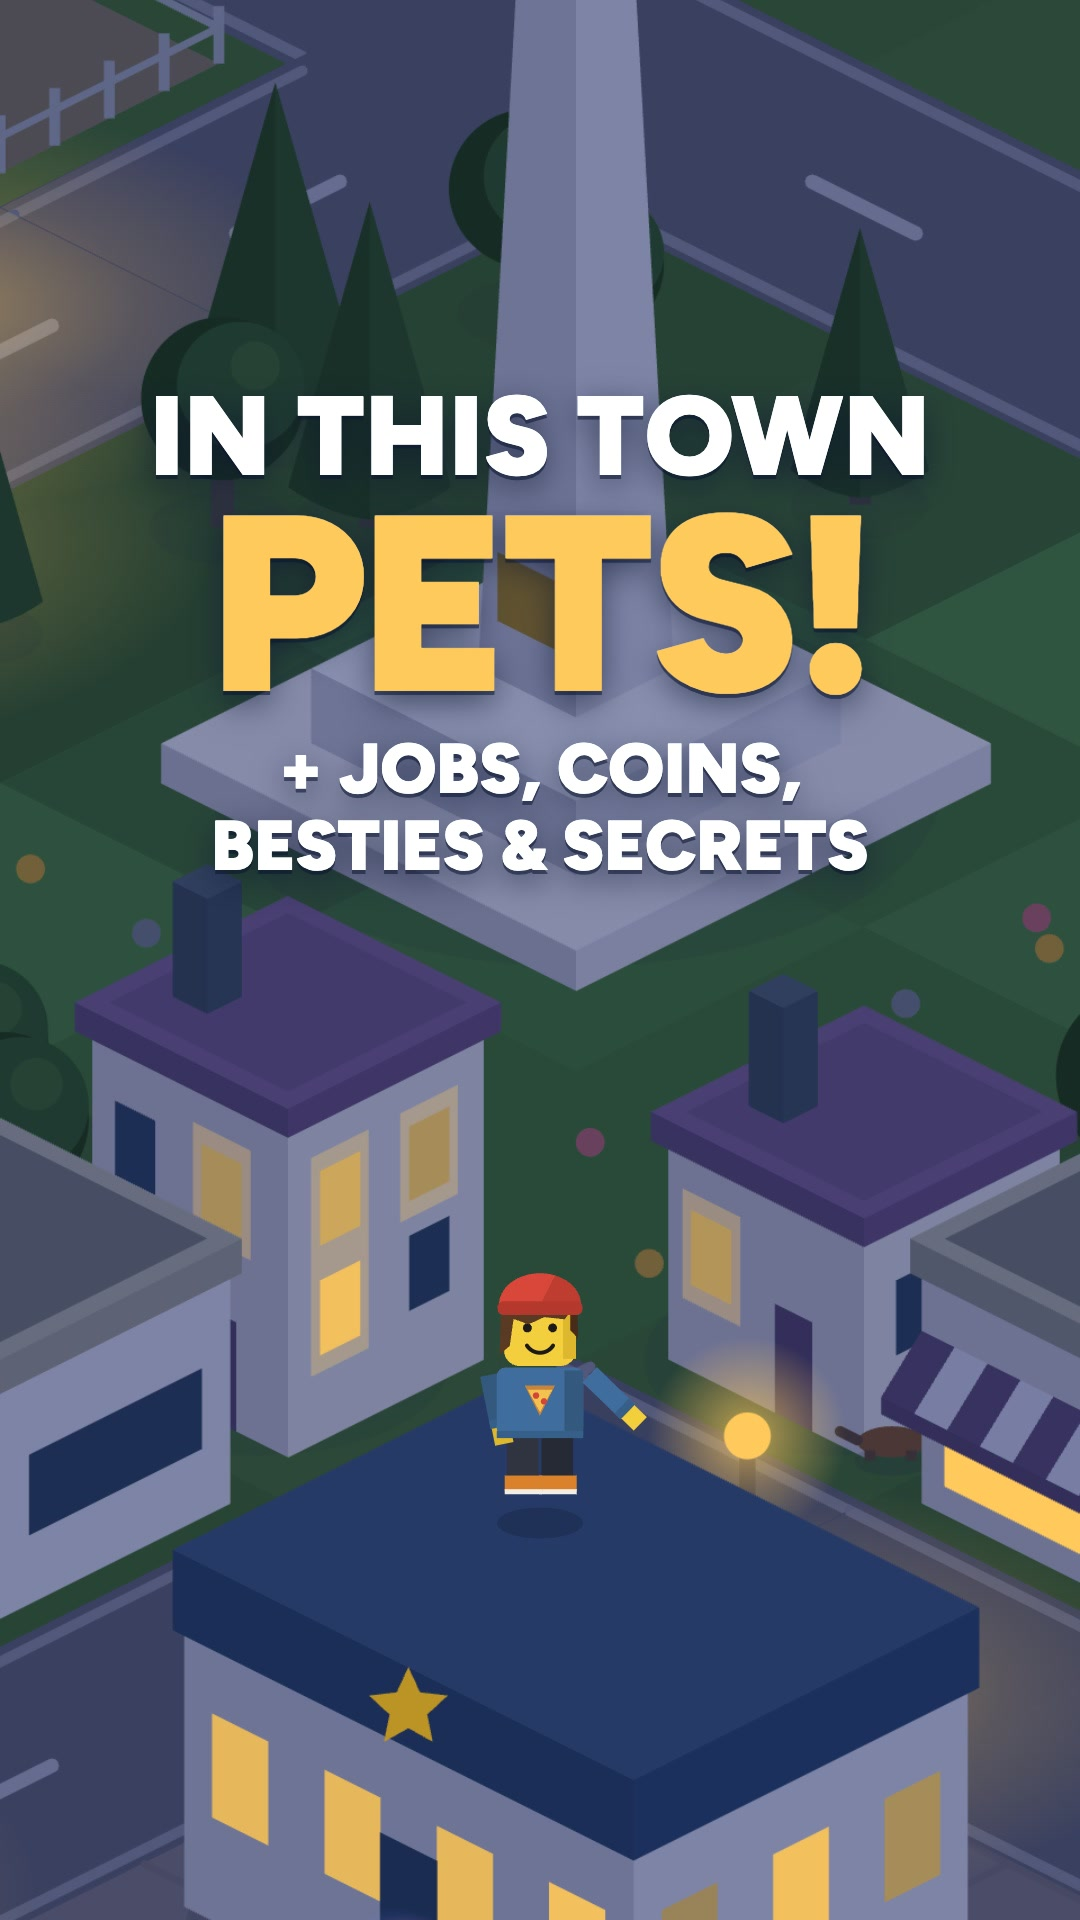
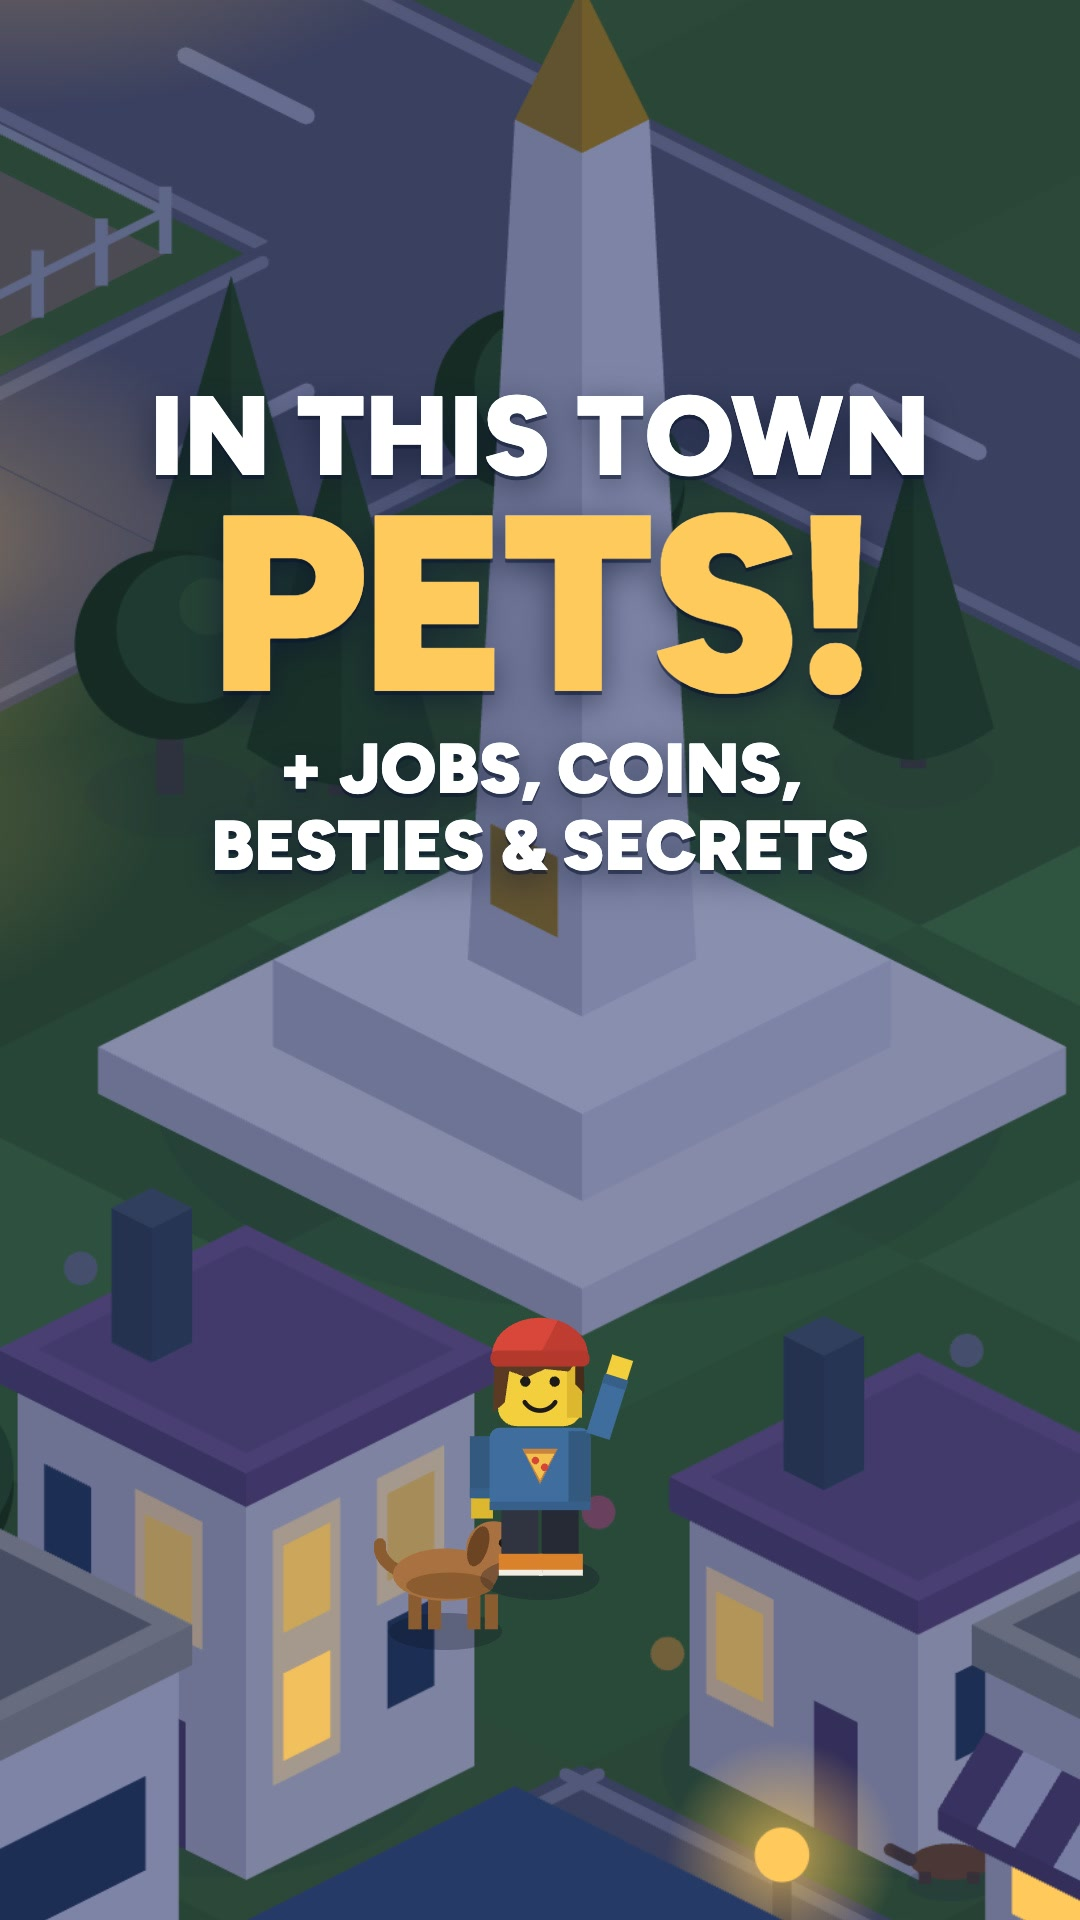
"In this town" #3 polish: Jadie's pet companion; never speak highlight markers
- Jadie's pet: dog, cat, bunny and fox drawn in his flat style (src/reel-jadie.ts), trotting
  beside him in reels (actor key `pet`, held until the next key names one). The map's own pets are
  tiny yard sprites, so the reel shows his real dog this way; the cat/bunny/fox swaps are jokes.
- Episode T3: Jadie stands on the lawn by the monument (the police station now sits on the street
  in front of his house); his pet swaps dog → cat → bunny on the words and turns into a fox on
  "a fox"; final cover and library caption (all new features, 5 hashtags, notes, alt text).
- Narration: *word* markers are stripped from what the voice speaks, so a line without its own
  `say` can never read out "asterisk" (it did in three T3 lines; the reel is now 16.9 s).

diff --git a/src/reel.ts b/src/reel.ts
@@ -23,7 +23,7 @@ import type { CityView, ReelCamera, ReelControl, ReelTarget } from './city/api';
 import { COLORS, FONTS, alpha, skyAt, type SkyState } from './theme';
 import { renderShareCard } from './ui/share';
 import { addressOf } from './ui/lookup';
-import { drawJadie, JADIE_HEIGHT, type JadiePose } from './reel-jadie';
+import { drawCompanion, drawJadie, JADIE_HEIGHT, type CompanionPet, type JadiePose } from './reel-jadie';
 
 export interface ReelStats {
   city: string;
@@ -126,7 +126,8 @@ interface Key {
  */
 export interface ReelActor {
   id: 'jadie';
-  keys: { t: number; at: string; dx?: number; dy?: number; pose?: JadiePose; face?: 1 | -1 }[];
+  /** `pet`: a companion trotting beside him from this key on (null for none) */
+  keys: { t: number; at: string; dx?: number; dy?: number; pose?: JadiePose; face?: 1 | -1; pet?: CompanionPet | null }[];
   talk?: { from: number; to: number }[];
   /** added to the animation clock (gestures, breathing), e.g. to end a looping reel on its first frame's pose */
   clock?: number;
@@ -457,7 +458,7 @@ export function startReel(city: CityView, data: CityData, params: URLSearchParam
 
   const canvas = document.getElementById('city') as HTMLCanvasElement;
   // ── scripted camera (launch reels): set with window.kinsburgReel.setScript() ──
-  let script: { duration: number; cams: { t: number; cam: ReelCamera }[]; hours: { t: number; h: number }[]; dark: { id: string; until: number }[]; rings: { id: string; from: number; to: number }[]; labels: ReelLabel[]; lifts?: number[]; actors: { id: string; keys: { t: number; x: number; y: number; pose: JadiePose; face?: 1 | -1 }[]; talk: { from: number; to: number }[]; clock: number }[]; ease: 'cubic' | 'sine' } | null = null;
+  let script: { duration: number; cams: { t: number; cam: ReelCamera }[]; hours: { t: number; h: number }[]; dark: { id: string; until: number }[]; rings: { id: string; from: number; to: number }[]; labels: ReelLabel[]; lifts?: number[]; actors: { id: string; keys: { t: number; x: number; y: number; pose: JadiePose; face?: 1 | -1; pet?: CompanionPet | null }[]; talk: { from: number; to: number }[]; clock: number }[]; ease: 'cubic' | 'sine' } | null = null;
   const resolveTarget = (spec: string): ReelTarget | null => {
     const id = normalise(spec);
     if (id === 'wide') return null;
@@ -473,20 +474,23 @@ export function startReel(city: CityView, data: CityData, params: URLSearchParam
     return { x: (b.minX + b.maxX) / 2, y: (b.minY + b.maxY) / 2 - (H * 0.02) / z, zoom: z };
   };
   /** Where an actor is at time t, the pose to draw and which way he faces. */
-  const actorAt = (a: { keys: { t: number; x: number; y: number; pose: JadiePose; face?: 1 | -1 }[] }, t: number) => {
+  const actorAt = (a: { keys: { t: number; x: number; y: number; pose: JadiePose; face?: 1 | -1; pet?: CompanionPet | null }[] }, t: number) => {
     const ks = a.keys;
-    if (t <= ks[0].t) return { x: ks[0].x, y: ks[0].y, pose: ks[0].pose, face: ks[0].face ?? 1 };
+    // the pet is whatever the latest key that names one says
+    let pet: CompanionPet | null = null;
+    for (const k of ks) if (k.t <= t && k.pet !== undefined) pet = k.pet;
+    if (t <= ks[0].t) return { x: ks[0].x, y: ks[0].y, pose: ks[0].pose, face: ks[0].face ?? 1, pet: ks[0].pet ?? null };
     for (let i = 0; i < ks.length - 1; i++) {
       const A = ks[i], B = ks[i + 1];
       if (t > B.t) continue;
       const moving = Math.hypot(B.x - A.x, B.y - A.y) > 0.5;
-      if (!moving) return { x: A.x, y: A.y, pose: A.pose, face: A.face ?? 1 };
+      if (!moving) return { x: A.x, y: A.y, pose: A.pose, face: A.face ?? 1, pet };
       const u = clamp01((t - A.t) / Math.max(1e-6, B.t - A.t));
       const e = u * u * (3 - 2 * u);
-      return { x: lerp(A.x, B.x, e), y: lerp(A.y, B.y, e), pose: 'walk' as JadiePose, face: (B.face ?? (B.x >= A.x ? 1 : -1)) as 1 | -1 };
+      return { x: lerp(A.x, B.x, e), y: lerp(A.y, B.y, e), pose: 'walk' as JadiePose, face: (B.face ?? (B.x >= A.x ? 1 : -1)) as 1 | -1, pet };
     }
     const L = ks[ks.length - 1];
-    return { x: L.x, y: L.y, pose: L.pose, face: L.face ?? 1 };
+    return { x: L.x, y: L.y, pose: L.pose, face: L.face ?? 1, pet };
   };
   /** Camera between script keys: cubic ease in-out, keeping the closer shot's centre on a straight screen path. */
   const scriptCamera = (t: number): ReelCamera => {
@@ -530,6 +534,11 @@ export function startReel(city: CityView, data: CityData, params: URLSearchParam
         ctx.save();
         ctx.setTransform(1, 0, 0, 1, 0, 0);
         const talk = a.talk.some((r) => tt >= r.from && tt <= r.to);
+        if (p.pet) {
+          // the pet trots a step behind and beside him, a little lower so it reads in front of the street
+          const px = p.x - p.face * 9, py = p.y + 5;
+          drawCompanion(ctx, W / 2 + (px - camera.x) * camera.zoom, H / 2 + (py - camera.y) * camera.zoom, camera.zoom, p.pet, tt + a.clock, p.face, p.pose === 'walk');
+        }
         drawJadie(ctx, W / 2 + (p.x - camera.x) * camera.zoom, H / 2 + (p.y - camera.y) * camera.zoom, camera.zoom, p.pose, tt + a.clock, p.face, talk);
         ctx.restore();
       }
@@ -580,7 +589,7 @@ export function startReel(city: CityView, data: CityData, params: URLSearchParam
         keys: a.keys.map((k) => {
           const tg = resolveTarget(k.at);
           if (!tg) missingActors.push(k.at);
-          return { t: k.t, x: (tg?.x ?? 0) + (k.dx ?? 0), y: (tg?.y ?? 0) + (k.dy ?? 0), pose: k.pose ?? 'idle', face: k.face };
+          return { t: k.t, x: (tg?.x ?? 0) + (k.dx ?? 0), y: (tg?.y ?? 0) + (k.dy ?? 0), pose: k.pose ?? 'idle', face: k.face, pet: k.pet };
         }),
       }));
       // each key: { t, target: resident id | 'landmark:kind' | 'lot:id' | 'actor:jadie' | 'wide', zoom?, y? (where the subject sits, 0..1 of the height) }

diff --git a/src/reel-jadie.ts b/src/reel-jadie.ts
@@ -166,3 +166,85 @@ function roundRect(ctx: CanvasRenderingContext2D, x: number, y: number, w: numbe
   ctx.arcTo(x, y, x + w, y, r);
   ctx.closePath();
 }
+
+// ── Jadie's pet (a companion that trots beside him in reels) ────────────────────
+export type CompanionPet = 'dog' | 'cat' | 'bunny' | 'fox';
+
+const P = {
+  dog: { body: '#a8713f', shade: '#8c5c31', dark: '#6b4423' },
+  cat: { body: '#8d929c', shade: '#747985', dark: '#5d616b' },
+  bunny: { body: '#f2ede3', shade: '#ddd6c8', dark: '#e9a5a5' },
+  fox: { body: '#e07a2f', shade: '#c4651f', dark: '#3a2a20' },
+};
+
+/**
+ * Draw a small pet with its feet at (sx, sy), facing `face`, in the same flat style and scale as Jadie
+ * (about 9 units long). `moving` makes it trot; at rest it breathes and wags.
+ */
+export function drawCompanion(ctx: CanvasRenderingContext2D, sx: number, sy: number, k: number, kind: CompanionPet, t: number, face: 1 | -1 = 1, moving = false) {
+  const c = P[kind];
+  ctx.save();
+  ctx.translate(sx, sy);
+  ctx.scale(k * face * SCALE * 1.3, k * SCALE * 1.3); // a bit larger than life so it reads on a phone
+  const hop = kind === 'bunny' ? -Math.abs(Math.sin(t * (moving ? 9 : 2.4))) * (moving ? 3 : 0.6) : moving ? -Math.abs(Math.sin(t * 11)) * 0.8 : 0;
+  // shadow
+  ctx.fillStyle = 'rgba(10,16,32,0.28)';
+  ctx.beginPath(); ctx.ellipse(0, 0.2, 5.2, 1.7, 0, 0, Math.PI * 2); ctx.fill();
+  ctx.translate(0, hop);
+  const step = moving ? Math.sin(t * 22) * 0.9 : 0;
+  // legs (not for the bunny, whose body sits on its feet)
+  if (kind !== 'bunny') {
+    ctx.fillStyle = c.shade;
+    for (const [x, s] of [[-3.4, step], [-1.6, -step], [2.0, -step], [3.6, step]] as const) ctx.fillRect(x + s * 0.4, -3.2, 1.2, 3.2);
+  }
+  // tail
+  ctx.strokeStyle = kind === 'fox' ? c.body : c.shade;
+  ctx.lineCap = 'round';
+  if (kind === 'dog') {
+    const wag = Math.sin(t * 16) * 0.8;
+    ctx.lineWidth = 1.1; ctx.beginPath(); ctx.moveTo(-4.4, -5.4); ctx.quadraticCurveTo(-6.2, -7.2 + wag, -6.0, -8.6 + wag); ctx.stroke();
+  } else if (kind === 'cat') {
+    ctx.lineWidth = 1.0; ctx.beginPath(); ctx.moveTo(-4.4, -5.0); ctx.quadraticCurveTo(-7.2, -6.0, -6.4, -10.2 + Math.sin(t * 3) * 0.5); ctx.stroke();
+  } else if (kind === 'fox') {
+    ctx.fillStyle = c.body; ctx.beginPath(); ctx.ellipse(-6.0, -5.2, 3.0, 1.6, -0.5, 0, Math.PI * 2); ctx.fill();
+    ctx.fillStyle = '#f7efe2'; ctx.beginPath(); ctx.ellipse(-8.2, -6.4, 1.2, 0.9, -0.5, 0, Math.PI * 2); ctx.fill();
+  } else {
+    ctx.fillStyle = '#ffffff'; ctx.beginPath(); ctx.arc(-4.2, -4.4, 1.3, 0, Math.PI * 2); ctx.fill();
+  }
+  // body
+  ctx.fillStyle = c.body;
+  ctx.beginPath();
+  if (kind === 'bunny') ctx.ellipse(0, -3.4, 3.8, 3.2, 0, 0, Math.PI * 2);
+  else ctx.ellipse(0, -5.0, 4.8, 2.4, 0, 0, Math.PI * 2);
+  ctx.fill();
+  ctx.fillStyle = c.shade;
+  ctx.beginPath();
+  if (kind === 'bunny') ctx.ellipse(0.6, -2.4, 3.0, 1.6, 0, 0, Math.PI * 2);
+  else ctx.ellipse(0.4, -4.0, 4.0, 1.2, 0, 0, Math.PI * 2);
+  ctx.fill();
+  // head
+  const hx = kind === 'bunny' ? 3.2 : 4.4, hy = kind === 'bunny' ? -6.6 : -7.4;
+  ctx.fillStyle = c.body;
+  ctx.beginPath(); ctx.arc(hx, hy, kind === 'bunny' ? 2.3 : 2.5, 0, Math.PI * 2); ctx.fill();
+  // ears
+  if (kind === 'dog') {
+    ctx.fillStyle = c.dark; ctx.beginPath(); ctx.ellipse(hx - 1.4, hy - 0.2, 0.9, 1.9, 0.3, 0, Math.PI * 2); ctx.fill();
+  } else if (kind === 'bunny') {
+    for (const dx of [-0.9, 0.7]) {
+      ctx.fillStyle = c.body; ctx.beginPath(); ctx.ellipse(hx + dx, hy - 3.6, 0.85, 2.6, 0.12, 0, Math.PI * 2); ctx.fill();
+      ctx.fillStyle = c.dark; ctx.beginPath(); ctx.ellipse(hx + dx, hy - 3.4, 0.38, 1.8, 0.12, 0, Math.PI * 2); ctx.fill();
+    }
+  } else {
+    ctx.fillStyle = c.body;
+    for (const dx of [-1.5, 1.1]) { ctx.beginPath(); ctx.moveTo(hx + dx - 1.0, hy - 1.4); ctx.lineTo(hx + dx + 0.2, hy - 4.2); ctx.lineTo(hx + dx + 1.0, hy - 1.2); ctx.closePath(); ctx.fill(); }
+  }
+  // snout, nose, eye
+  if (kind === 'dog' || kind === 'fox') {
+    ctx.fillStyle = kind === 'fox' ? '#f7efe2' : c.shade;
+    ctx.beginPath(); ctx.ellipse(hx + 2.4, hy + 0.6, 1.6, 1.0, 0, 0, Math.PI * 2); ctx.fill();
+  }
+  ctx.fillStyle = '#1d1b1a';
+  ctx.beginPath(); ctx.arc(hx + (kind === 'bunny' ? 2.1 : 3.6), hy + (kind === 'bunny' ? 0.2 : 0.4), 0.45, 0, Math.PI * 2); ctx.fill();
+  ctx.beginPath(); ctx.arc(hx + 0.9, hy - 0.5, 0.42, 0, Math.PI * 2); ctx.fill();
+  ctx.restore();
+}

diff --git a/reels/README.md b/reels/README.md
@@ -14,6 +14,7 @@ Hashtag choices and what's working for similar accounts: [RESEARCH.md](RESEARCH.
 |---|---|---|
 | Day 1 | [launch/launch-04-house-number-4-is-empty](launch/launch-04-house-number-4-is-empty) | **Posted.** The city went from 3 to 28 residents |
 | **Now** | [in-this-town/in-this-town-02-six-seven](in-this-town/in-this-town-02-six-seven) | **Ready, post first.** "6 7" only works while there are exactly 67 residents. Loops seamlessly |
+| **Next** | [in-this-town/in-this-town-03-the-update](in-this-town/in-this-town-03-the-update) | **Ready.** Pets, jobs, RESPOND and coins, besties, secret spots. No exact numbers, so it doesn't go stale |
 | Day 2 | [in-this-town/in-this-town-01-rules-of-kinsburg](in-this-town/in-this-town-01-rules-of-kinsburg) | **Ready.** Re-rendered from the live city with @jadiedevs as resident #4 |
 | Day 3 | [live/live-01-lets-build-this-city](live/live-01-lets-build-this-city) | **Ready.** Jadie's voice, hover cards for @itsjadenchristy, @metabro.pov and @jadiedevs |
 | Later | [launch/launch-01-yours-is-still-dark](launch/launch-01-yours-is-still-dark) | Re-render from the live city (this cut shows the demo city) |
@@ -28,7 +29,7 @@ The two Ready Reels have the live numbers filmed in (28 residents, house #29). I
 npm run reel:launch -- --only T1 --url https://kinsburg.com
 ```
 
-Use `--only D` for launch-04, `T1` for in-this-town-01, `T2` for in-this-town-02 (only at 67 residents), `L1` for live-01, `A`/`B`/`C` for launch-01 to 03; leave `--only` out to re-render launch-01 to 03.
+Use `--only D` for launch-04, `T1` for in-this-town-01, `T2` for in-this-town-02 (only at 67 residents), `T3` for in-this-town-03, `L1` for live-01, `A`/`B`/`C` for launch-01 to 03; leave `--only` out to re-render launch-01 to 03.
 
 The new video, cover and grid preview go straight into the Reel's folder here, replacing the old ones. A caption you've already written is kept; the script prints the new caption so you can update its numbers.
 
